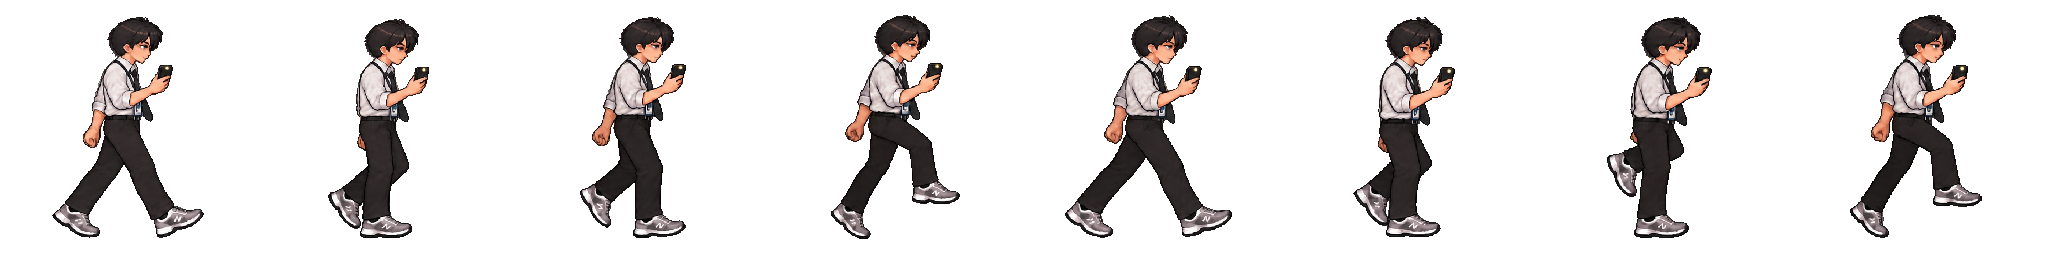
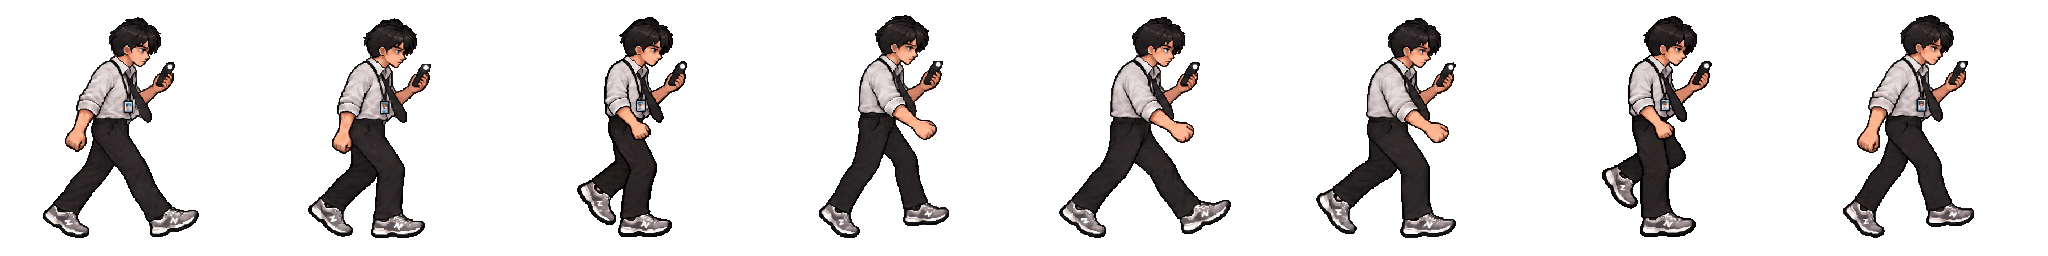
fix: correct Suho phone-walk arm swing and lower raised steps

diff --git a/js/scene/camera.js b/js/scene/camera.js
@@ -7,8 +7,8 @@ let cameraZoom = 1;
 const cameraFocus = { x: 0, y: 0 };
 const cameraShake = { x: 0, y: 0 };
 // Phone LED coordinates in the 256px animation cells, rendered at 75% scale.
-const walkPhoneLamps = [[167, 68], [167, 69], [168, 67], [169, 66],
-  [171, 69], [168, 70], [169, 70], [169, 68]];
+const walkPhoneLamps = [[169, 66], [169, 67], [170, 66], [170, 64],
+  [171, 66], [171, 67], [170, 65], [171, 65]];
 const runPhoneLamps = [[195, 75], [202, 77], [201, 72], [206, 80], [201, 66], [213, 77], [212, 70], [213, 74],
   [204, 71], [208, 85], [202, 69], [208, 82], [204, 66], [205, 89], [202, 78], [203, 78]];
 

diff --git a/assets/player/movement-inbetweens-source/README.md b/assets/player/movement-inbetweens-source/README.md
@@ -10,7 +10,9 @@
 | `run.png` | 4열 × 2행, 달리기 중간 자세 8장 | `../jeong-suho-run-sixteen.png` |
 | `phone-run-off.png` | 4열 × 2행, 휴대폰을 든 중간 자세 8장 | `../jeong-suho-phone-run-sixteen-off.png` |
 
-걷기는 접지 → 무릎을 굽혀 체중 받기 → 반대 다리 통과 → 지지 발의 뒤꿈치를 들고 발끝 밀기 순서다. 후반 4장은 반대 발이 지지하며 팔도 반대로 움직인다. 모든 프레임에 지지하는 발 또는 발끝이 바닥에 닿는다. 머리 기준점과 몸 크기를 통일하고 상하 움직임은 약 3px로 제한했다. 휴대폰을 잡은 가까운 팔은 앞으로 유지하며, 빈손인 먼쪽 팔은 몸통 뒤로 가려진다.
+걷기는 접지 → 무릎을 굽혀 체중 받기 → 반대 다리 통과 → 지지 발의 뒤꿈치를 들고 발끝 밀기 순서다. 후반 4장은 반대 발이 지지하며 팔도 반대로 움직인다. 모든 프레임에 지지하는 발 또는 발끝이 바닥에 닿는다. 3/7번의 과도한 무릎 들기를 낮춰, 앞으로 내미는 신발이 지면 가까이를 지나게 했다. 머리 기준점과 몸 크기를 통일하고 상하 움직임은 약 3px로 제한했다.
+
+휴대폰은 먼쪽 손으로 잡고, 빈손인 가까운 팔은 어깨·팔꿈치·손목이 보이도록 그렸다. 빈손은 다리와 반대로 흔들린다. 0/1/7번에서는 뒤쪽, 2/6번에서는 중간, 3/4/5번에서는 앞쪽을 지난다. 모든 자세는 휴대폰을 잡은 팔 하나와 빈손 팔 하나로 구성한다. ON은 생성된 LED 부분만 OFF에 정렬해 합성했으므로, 플래시를 전환해도 몸과 팔이 바뀌지 않는다.
 
 게임에는 **플래시를 켜고 달리는 기능이 없다**. 켜진 동안 Shift를 눌러도 걷는다. 켜진 달리기의 확장 시트·생성 원본·미리보기는 제거했다. `jeong-suho-phone-jump-on.png`는 기존 보존 시트 `jeong-suho-phone-run-on.png`의 2/6번 공중 자세만 픽셀 그대로 추출한 점프·낙하 전용 2프레임 시트다. 지상 달리기에는 사용하지 않는다.
 
@@ -18,4 +20,4 @@
 
 프로젝트 루트의 `node scripts/prepare-movement-inbetweens.mjs`가 최근접 보간·알파 정리·정렬·셀 배열만 수행해 시트를 재생성한다. 걷기의 기준점은 머리 중심 x=135, 발 기준선은 일반 239/휴대폰 237이다. ON/OFF는 OFF의 정렬값을 공유한다. 광원 좌표는 `js/scene/camera.js`의 실제 LED 위치에 맞췄다.
 
-검증은 `tests/movement-inbetweens.mjs`와 `tests/phone-movement.mjs`다. `docs/previews/suho-walk-inbetweens.gif`는 일반·휴대폰 OFF·플래시 ON 걷기 3개이고, `suho-run-inbetweens.gif`는 일반·휴대폰 OFF 달리기 2개만 보여 준다.
+검증은 `tests/movement-inbetweens.mjs`와 `tests/phone-movement.mjs`다. 빈손의 앞·중간·뒤 움직임, ON/OFF의 팔 위상, 3/7번의 낮은 앞발 높이도 검사한다. `docs/previews/suho-walk-inbetweens.gif`는 일반·휴대폰 OFF·플래시 ON 걷기 3개이고, `suho-run-inbetweens.gif`는 일반·휴대폰 OFF 달리기 2개만 보여 준다. `suho-phone-walk-arm-swing.gif`는 팔과 다리 수정 전(왼쪽)과 후(오른쪽) 비교다.

diff --git a/docs/suho-movement-inbetweens-2026-10-17.md b/docs/suho-movement-inbetweens-2026-10-17.md
@@ -4,7 +4,12 @@
 
 **플래시 ON 상태에서는 달릴 수 없다.** Shift를 눌러도 걷기 속도와 걷기 그림을 유지한다. 켜진 달리기 확장 시트와 해당 미리보기는 제거했다. 점프·낙하에서는 기존 공중 자세 두 장만 추출한 `jeong-suho-phone-jump-on.png`를 사용한다.
 
+휴대폰은 먼쪽 손으로 잡고 가까운 빈손 팔이 어깨부터 손목까지 보이도록 다시 그렸다. 빈손은 뒤쪽(0/1/7번) → 중간(2/6번) → 앞쪽(3/4/5번)을 오가며 다리와 반대로 흔들린다. 팔이 겹쳐 붙어 보이던 부분을 정리하고, ON에는 생성된 LED 부분만 OFF에 합성해 몸과 팔을 동일하게 유지했다.
+
+마지막 프레임을 포함한 3/7번의 높은 무릎 들기도 낮췄다. 뒤쪽 발끝이 지면을 지지하는 동안 앞발은 지면 가까이 내밀며, 일반·휴대폰 OFF·플래시 ON에 모두 적용했다.
+
 - [걷기 GIF](previews/suho-walk-inbetweens.gif): 일반 이동·휴대폰 OFF·플래시 ON.
+- [팔·다리 전후 비교](previews/suho-phone-walk-arm-swing.gif): 왼쪽 수정 전, 오른쪽 수정 후.
 - [달리기 GIF](previews/suho-run-inbetweens.gif): 일반 이동·휴대폰 OFF만 포함.
 - [원본 및 재생성 방법](../assets/player/movement-inbetweens-source/README.md)
 
@@ -15,7 +20,7 @@
 | 검사 | 결과 |
 | --- | --- |
 | `node scripts/prepare-movement-inbetweens.mjs` | 재생성 통과, 잘림 없음 |
-| `node tests/movement-inbetweens.mjs` | 통과: 8단계 걷기의 접지·발끝 밀기·머리 기준점, 알파·여백, 달리기/점프 원본 픽셀 보존, Chromium의 전체 8/16프레임 재생·셀 선택·정지 복귀 |
+| `node tests/movement-inbetweens.mjs` | 통과: 빈손의 앞·중간·뒤 움직임과 ON/OFF 팔 위상, 3/7번의 낮은 앞발, 8단계 걷기의 접지·발끝 밀기·머리 기준점, 알파·여백, 달리기/점프 원본 픽셀 보존, Chromium의 전체 8/16프레임 재생·셀 선택·정지 복귀 |
 | `node tests/phone-movement.mjs` | 통과: 각 LED/광원 위치, 양방향 이동, 플래시 ON에서 Shift 달리기 차단, 전용 점프/낙하 2프레임, 배터리·넣기·모바일·터치 |
 | `node tests/opening.mjs` | 통과: 오프닝·제어 인계·모바일·이미지 실패 복구 |
 | `npm run test:syntax` | 89/89 스크립트 파싱 통과 |
